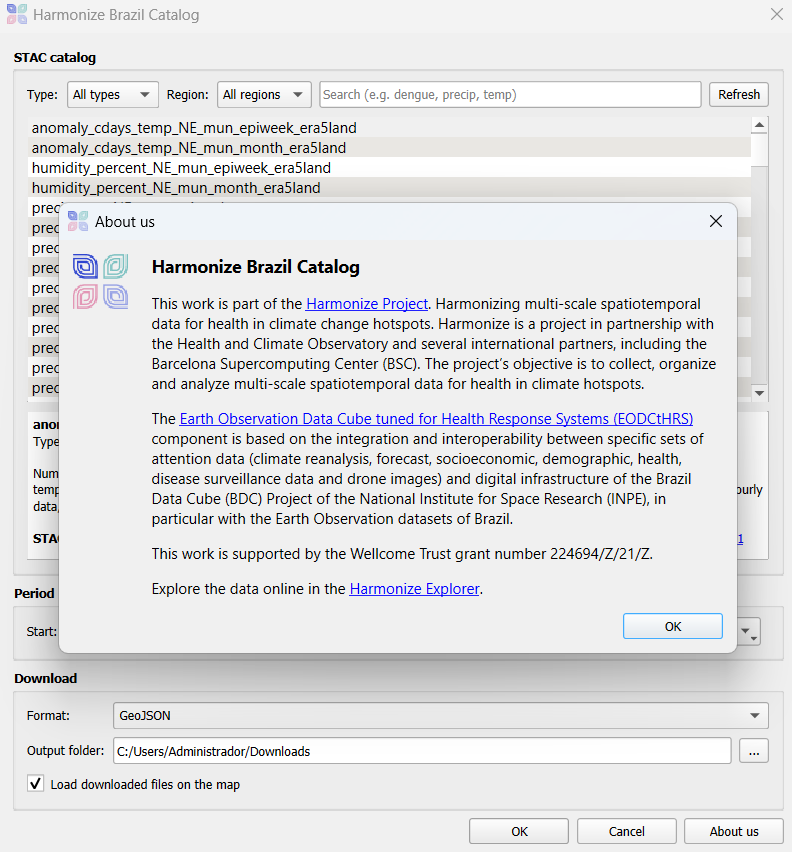
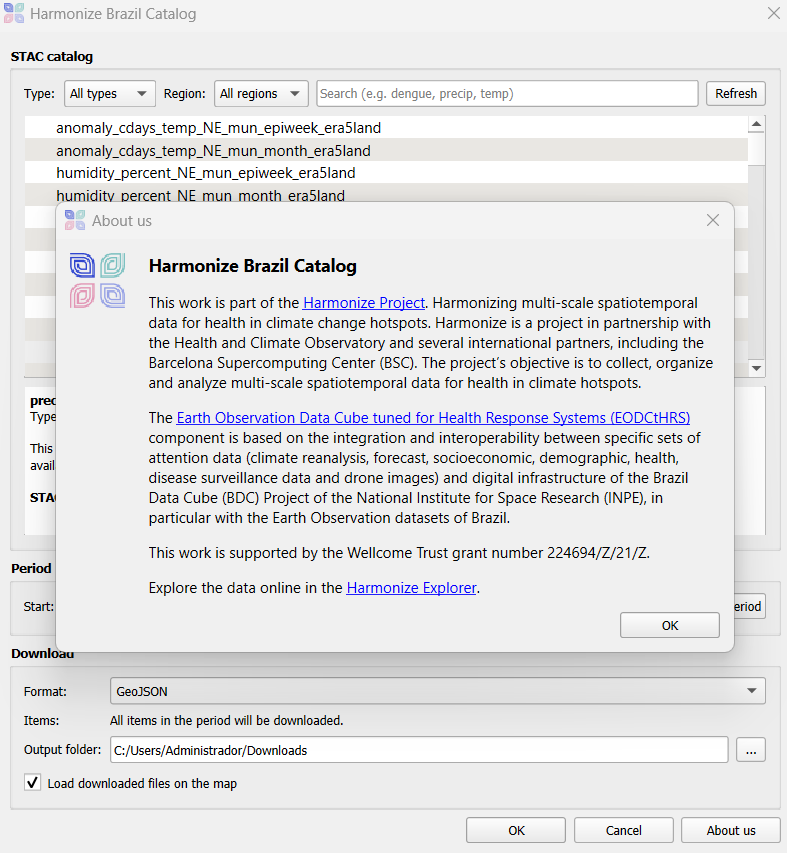
Update README file

diff --git a/README.md b/README.md
@@ -21,14 +21,24 @@
 
 **Harmonize Brazil Catalog** gives QGIS users direct access to the datasets published by the Harmonize Brazil project through its [STAC catalog](https://geolab.inpe.br/bdc/harmonize/stac/v1/collections). Users can browse the available collections, filter them by type and region, download the data for a chosen period and load it into QGIS, ready for temporal analysis.
 
-> The plugin is under development and is currently flagged as **experimental**.
-
 <details>
 <summary><strong>Screenshots</strong></summary>
 
 ![Plugin interface](images/interface.png)
 
 ![About us window](images/about.png)
+
+![Drone example window](images/interface_drone.png)
+
+![Selection item window](images/drone_selection1.png)
+
+![Selection item window](images/drone_selection2.png)
+
+![Drone example window](images/interface_drone2.png)
+
+![Drone example window](images/drone_selection3.png)
+
+![Selection item window](images/climate_selection.png)
 
 ![Drone imagery loaded in QGIS](images/drone_map.png)
 
@@ -50,6 +60,8 @@
   - **Drone** imagery: GeoTIFF.
   - **Data cubes**: GeoTIFF, one band at a time.
   - **Climate and health** (municipal indicators): GeoJSON or Shapefile (zip).
+- *List items in the period* window: thumbnails, items already downloaded and choice of what to download.
+- Collections with data in the output folder are marked with ✓.
 - Size check before downloading, with a confirmation prompt when the total exceeds 50 MB.
 - Large files are written directly to disk and downloads resume automatically after connection drops.
 - Local cache: files already downloaded are reused, and interrupted downloads continue where they stopped.
@@ -96,7 +108,6 @@ No additional Python packages are required.
 1. Download the latest release from the [Releases](https://github.com/Harmonize-Brazil/harmonize_brazil/releases) page.
 2. In QGIS, open *Plugins > Manage and Install Plugins > Install from ZIP*.
 3. Select the file and click *Install Plugin*.
-4. In the *Settings* tab, enable *Show also experimental plugins* if the plugin does not appear.
 
 **From source (development)**
 
@@ -127,7 +138,7 @@ Restart QGIS and enable the plugin. The [Plugin Reloader](https://plugins.qgis.o
 
 1. Open the plugin from the toolbar icon or from *Web > Harmonize Brazil Catalog*.
 2. Filter and select a collection.
-3. Set the start and end dates.
+3. Set the start and end dates. Optionally, click *List items in the period* to choose the items.
 4. Choose the download format (for data cubes, the band) and the output folder.
 5. Click **OK**. Progress is shown in the QGIS task bar, and messages are recorded in *View > Panels > Log Messages*, tab *Harmonize Brazil*.
 6. Use the **Temporal Controller** (*View > Panels > Temporal Controller*) to navigate through the loaded periods.
@@ -272,8 +283,6 @@ Data provided through the STAC catalog follow the licenses stated in each collec
 
 O **Harmonize Brazil Catalog** dá acesso direto, no QGIS, aos conjuntos de dados publicados pelo projeto Harmonize Brazil por meio do seu [catálogo STAC](https://geolab.inpe.br/bdc/harmonize/stac/v1/collections). É possível navegar pelas coleções, filtrá-las por tipo e região, baixar os dados de um período e carregá-los no QGIS, prontos para análise temporal.
 
-> O plugin está em desenvolvimento e marcado como **experimental**.
-
 <details>
 <summary><strong>Funcionalidades</strong></summary>
 
@@ -284,6 +293,8 @@ O **Harmonize Brazil Catalog** dá acesso direto, no QGIS, aos conjuntos de dado
   - Imagens de **drone**: GeoTIFF.
   - **Cubos de dados**: GeoTIFF, uma banda por vez.
   - **Clima e saúde** (indicadores municipais): GeoJSON ou Shapefile (zip).
+- Janela *Listar itens do período*: miniaturas, itens já baixados e escolha do que baixar.
+- Coleções com dados na pasta de saída são marcadas com ✓.
 - Verificação do tamanho antes do download, com confirmação quando o total passa de 50 MB.
 - Arquivos grandes são gravados direto no disco, e o download é retomado automaticamente se a conexão cair.
 - Cache local: arquivos já baixados são reaproveitados, e downloads interrompidos continuam de onde pararam.
@@ -328,7 +339,6 @@ Não é necessário instalar pacotes Python adicionais.
 1. Baixe a versão mais recente na página [Releases](https://github.com/Harmonize-Brazil/harmonize_brazil/releases).
 2. No QGIS, abra *Complementos > Gerenciar e instalar complementos > Instalar a partir do ZIP*.
 3. Selecione o arquivo e clique em *Instalar complemento*.
-4. Na aba *Configurações*, marque *Mostrar também complementos experimentais* se o plugin não aparecer.
 
 Para desenvolvimento, clone o repositório e crie, na pasta de plugins do QGIS, um link chamado `harmonize_brazil` apontando para a pasta `src`, conforme descrito na seção em inglês.
 
@@ -339,7 +349,7 @@ Para desenvolvimento, clone o repositório e crie, na pasta de plugins do QGIS, 
 
 1. Abra o plugin pelo ícone na barra de ferramentas ou em *Web > Harmonize Brazil Catalog*.
 2. Filtre e selecione uma coleção.
-3. Defina as datas de início e fim.
+3. Defina as datas de início e fim. Se quiser, clique em *Listar itens do período* para escolher os itens.
 4. Escolha o formato (nos cubos de dados, a banda) e a pasta de saída.
 5. Clique em **OK**. O progresso aparece na barra de tarefas do QGIS, e as mensagens ficam em *Exibir > Painéis > Mensagens de Log*, aba *Harmonize Brazil*.
 6. Use o **Controlador Temporal** (*Exibir > Painéis > Controlador Temporal*) para navegar pelos períodos carregados.
